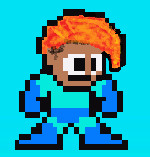
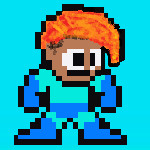
About Us hover complete! Onclick image and titles go to our gits.

Changed region(s): [[0.08, 0.0267, 0.8533, 0.9867]]

diff --git a/aboutUs.html b/aboutUs.html
@@ -13,10 +13,9 @@
 
 <div id = "mainBox">
       <div id = "profile">
-          <img class = "profile" src = "img/michael.jpg">
-          <a href="https://github.com/lyoncodes">
-          <h2 id = "nameDiv">Michael</h2>
-          </a>
+            <a href="https://github.com/lyoncodes"><img id = "mike" class = "profile" src = "img/michael.jpg">
+          <h2 id = "nameDiv">Michael</a>
+        </h2>  
       <div id = "specializations">
             <h3>Specializations:</h3>
             <p>JavaScript. HTML. Copy Editing.</p>
@@ -28,25 +27,25 @@
     </div> 
 
     <div id = "profile">
-            <img class = "profile" src = "img/megakarl.jpg">
             <a href="https://github.com/polink">
-            <h2 id = "nameDiv">Karl</h2>
-            </a>
+                <img id = "karl" class = "profile" src = "img/megakarl.jpg">
+            <h2 id = "nameDiv">Karl</a>
+            </h2>
         <div id = "specializations">
             <h3>Specializations:</h3>
-            <p>JavaScript, HTML, Copy Editing.</p>
+            <p>JavaScript, HTML, CSS, SQL</p>
         </div>
         <div id = "contributions">
             <h3>On This Project:</h3>
-            <p> Workflow Tracking, Slack/Github Manager, Home Page, Start-Game Form.</p>
+            <p> Workflow Tracking, Slack/Github Admin, Home Page with form, Base Presentation.</p>
         </div>
     </div>
 
     <div id = "profile">
-            <img class = "profile" src = "img/skyler.png">
             <a href = "https://github.com/SkylerBurger">
-            <h2 id = "nameDiv">Skyler</h2>
-            </a>
+                <img id = "skyler" class = "profile" src = "img/skyler.png">
+            <h2 id = "nameDiv">Skyler</a>
+            </h2>
         <div id = "specializations">
             <h3>Specializations:</h3>
             <p>JavaScript, HTML, Copy Editing.</p>
@@ -57,10 +56,10 @@
         </div>
     </div>
     <div id = "profile">
-            <img class = "profile" src = "img/connor.jpg">
             <a href = "https://github.com/consihon">
-            <h2 id = "nameDiv">Connor</h2>
-            </a>
+                <img id = "connor" class = "profile" src = "img/connor.jpg">
+            <h2 id = "nameDiv">Connor</a>
+            </h2>
             <div id = "specializations">
             <h3>Specializations:</h3>
             <p>JavaScript, Java, HTML, and CSS</p>

diff --git a/css/style.css b/css/style.css
@@ -96,14 +96,34 @@ input, option {
 	font-family: 'Press start 2P', monospace, sans-serif; 
 }
 .button{
-padding: 5px; 
-background-color: rgb(68, 184, 68);
-font-family: 'Press start 2P', monospace, sans-serif; 
+	background-color: rgb(68, 184, 68);
+	font-family: 'Press start 2P', monospace, sans-serif; 
+	padding: 5px; 
 }
 
-a:link, a:visited {
+a:link, a:visited{
 	color:white;
+	text-decoration: none;
 }
+
+/* image hovers for real pics! */
+#mike:hover{
+	content: url(../img/michael.png);
+	z-index: 50;
+}
+#karl:hover{
+	content: url(../img/karl.jpg);
+	z-index:50;
+}
+#skyler:hover{
+	content: url(../img/skyler1.png);
+	z-index:50;
+}
+#connor:hover{
+	content: url(../img/connor.png);
+	z-index:50;
+}
+
 
 footer{
 	text-align: center;
@@ -134,8 +154,11 @@ footer{
 	margin: -17px 150px;
     float: right;
     padding: -10px;
-    background: black;	
+	background: black;	
 }
+/* #nameDiv{
+	color: mediumblue;
+} */
 
 /* box content -- three divs stacked inside parent container */
 #specializations {

diff --git a/js/aboutUs.js b/js/aboutUs.js
@@ -1,4 +1,4 @@
-'use strict'
+'use strict';
 // document.getElementById('portrait1').height = 110
 // document.getElementById('portrait1').style.margin = '11px 6px 3px 6px'
 // document.getElementById('portrait1').style.position = 'relative'
@@ -19,11 +19,11 @@
 // document.getElementById('portrait4').style.position = 'relative'
 // document.getElementById('portrait4').style.float = 'left'
 //
-var imageItems = document.querySelectorAll('img.profile')
-console.log(imageItems)
+var imageItems = document.querySelectorAll('img.profile');
+console.log(imageItems);
 for (let i = 0; i < imageItems.length; i++) {
-  imageItems[i].height = 110
-  imageItems[i].style.margin = '16px 16px 0px 16px'
-  imageItems[i].style.position = 'relative'
-  imageItems[i].style.float = 'left'
+  imageItems[i].height = 110;
+  imageItems[i].style.margin = '16px 16px 0px 16px';
+  imageItems[i].style.position = 'relative';
+  imageItems[i].style.float = 'left';
 }
